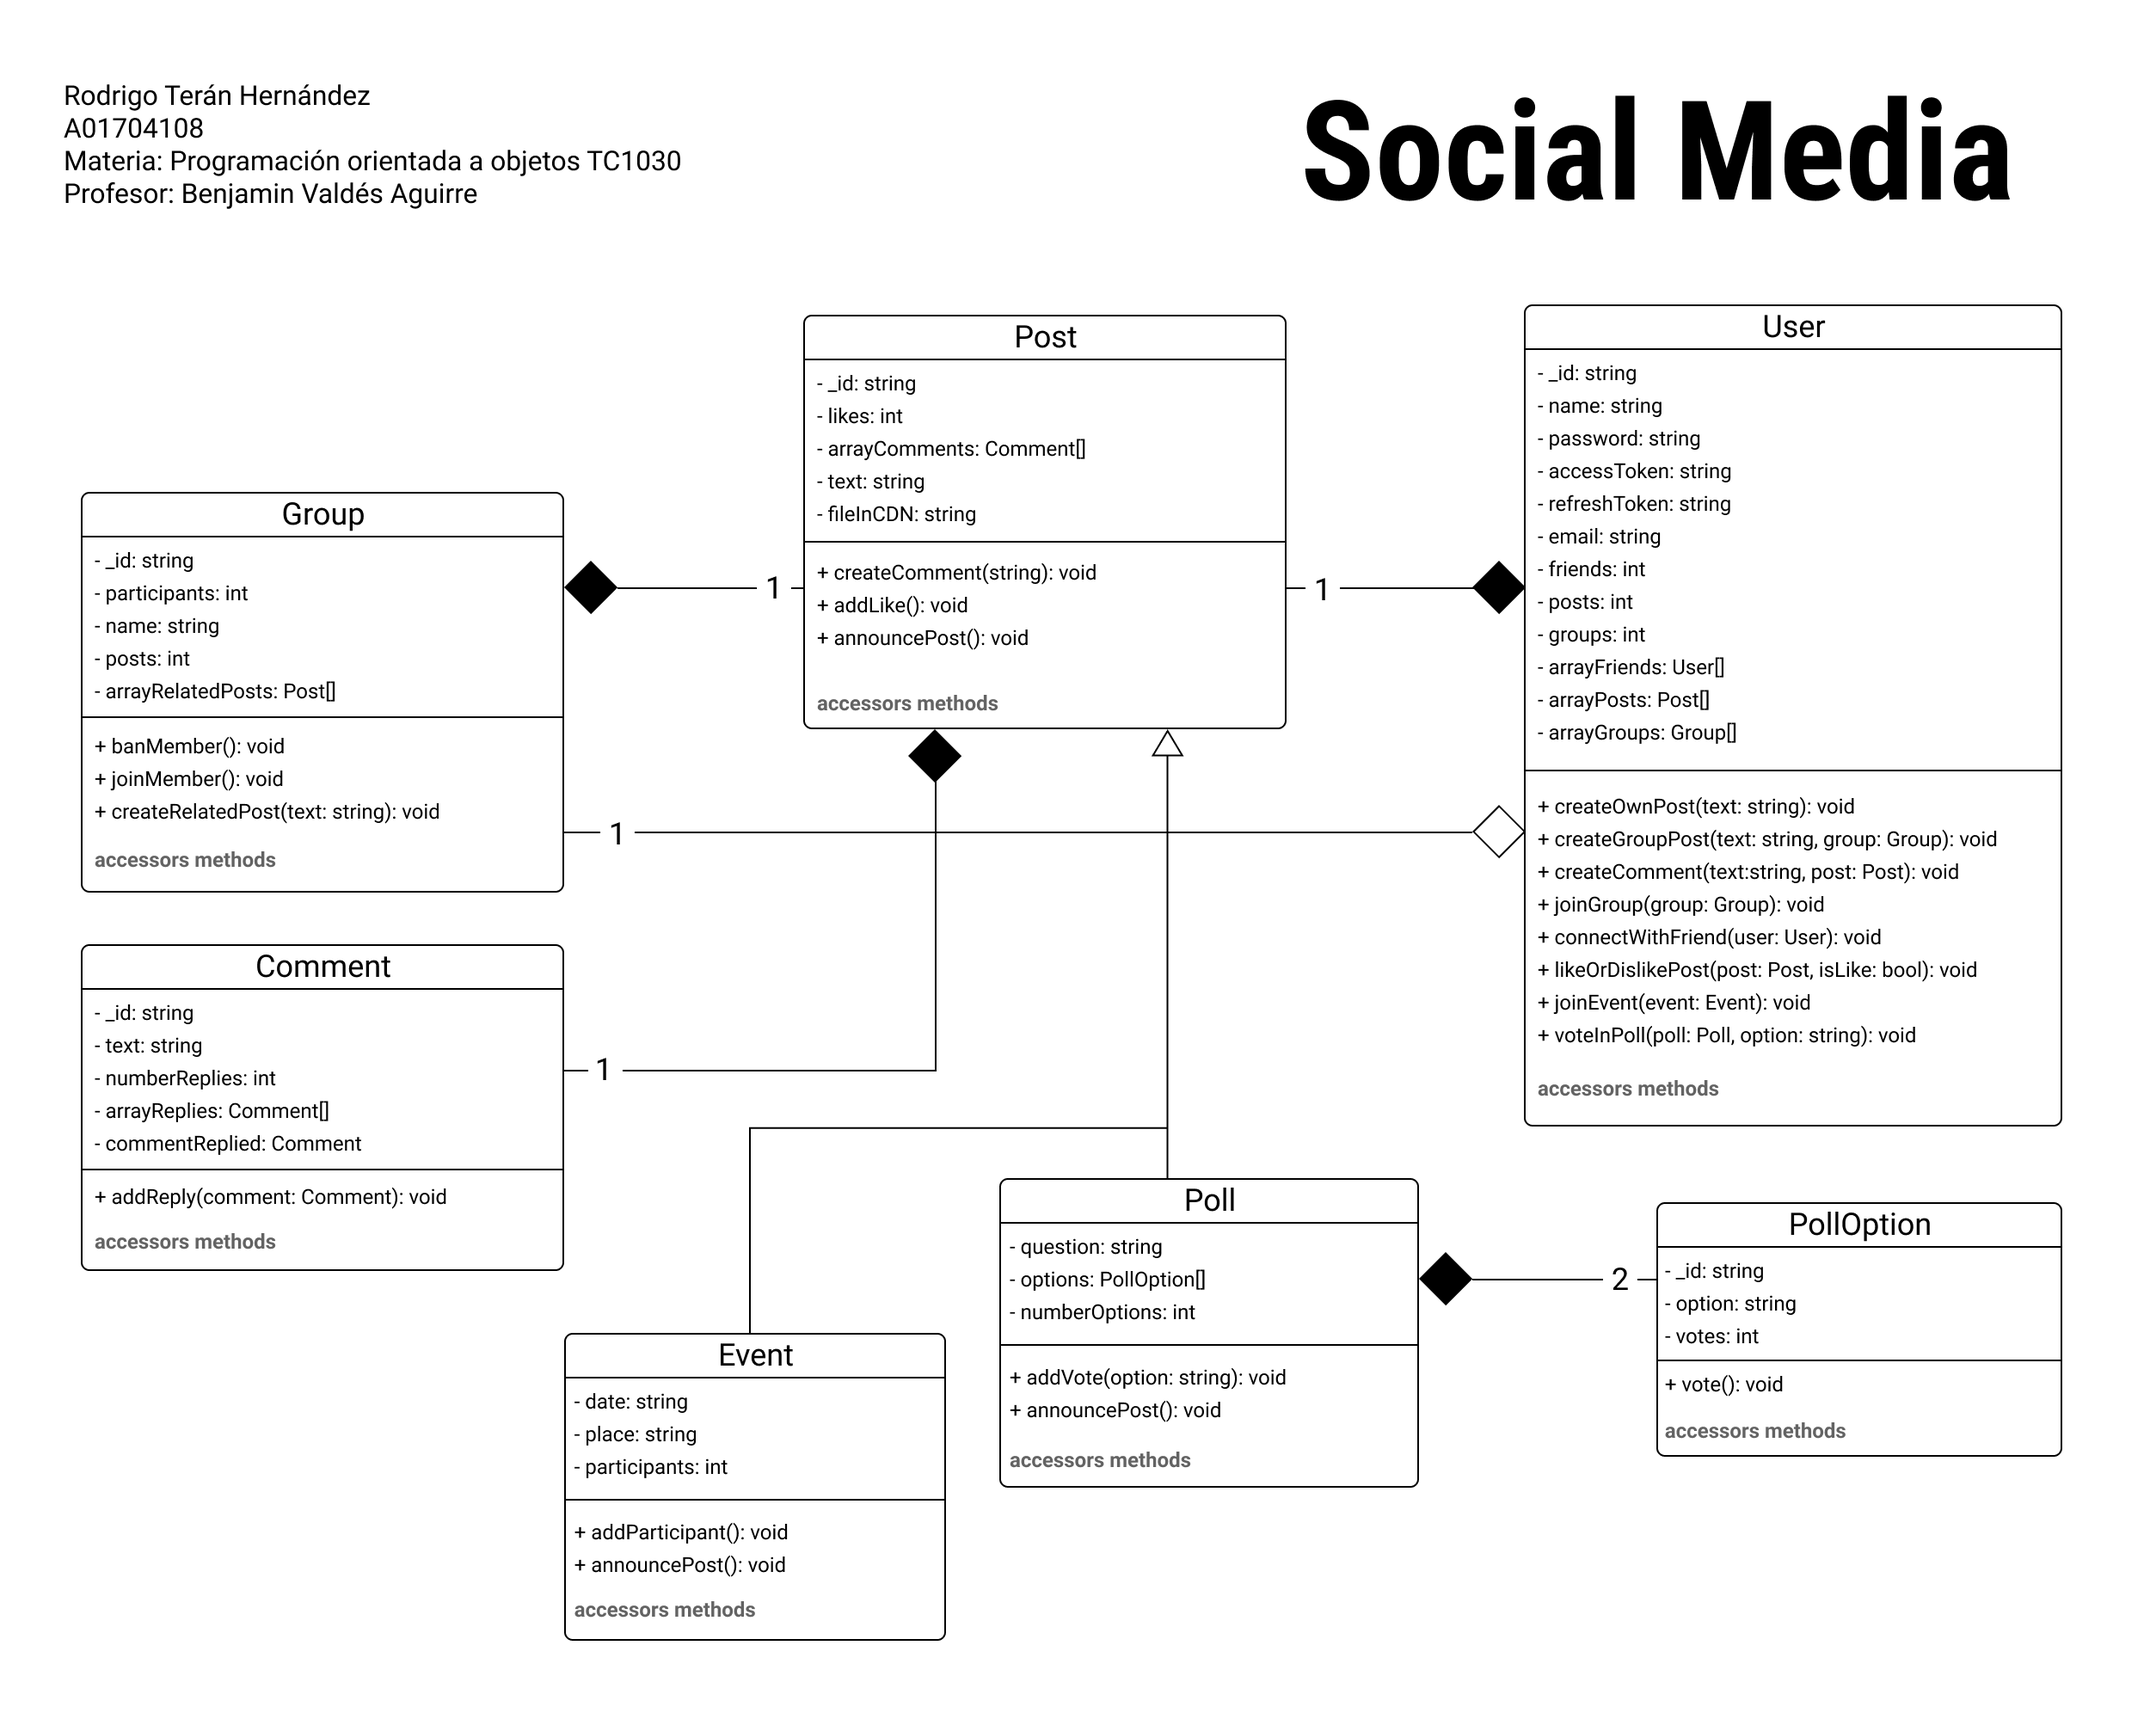
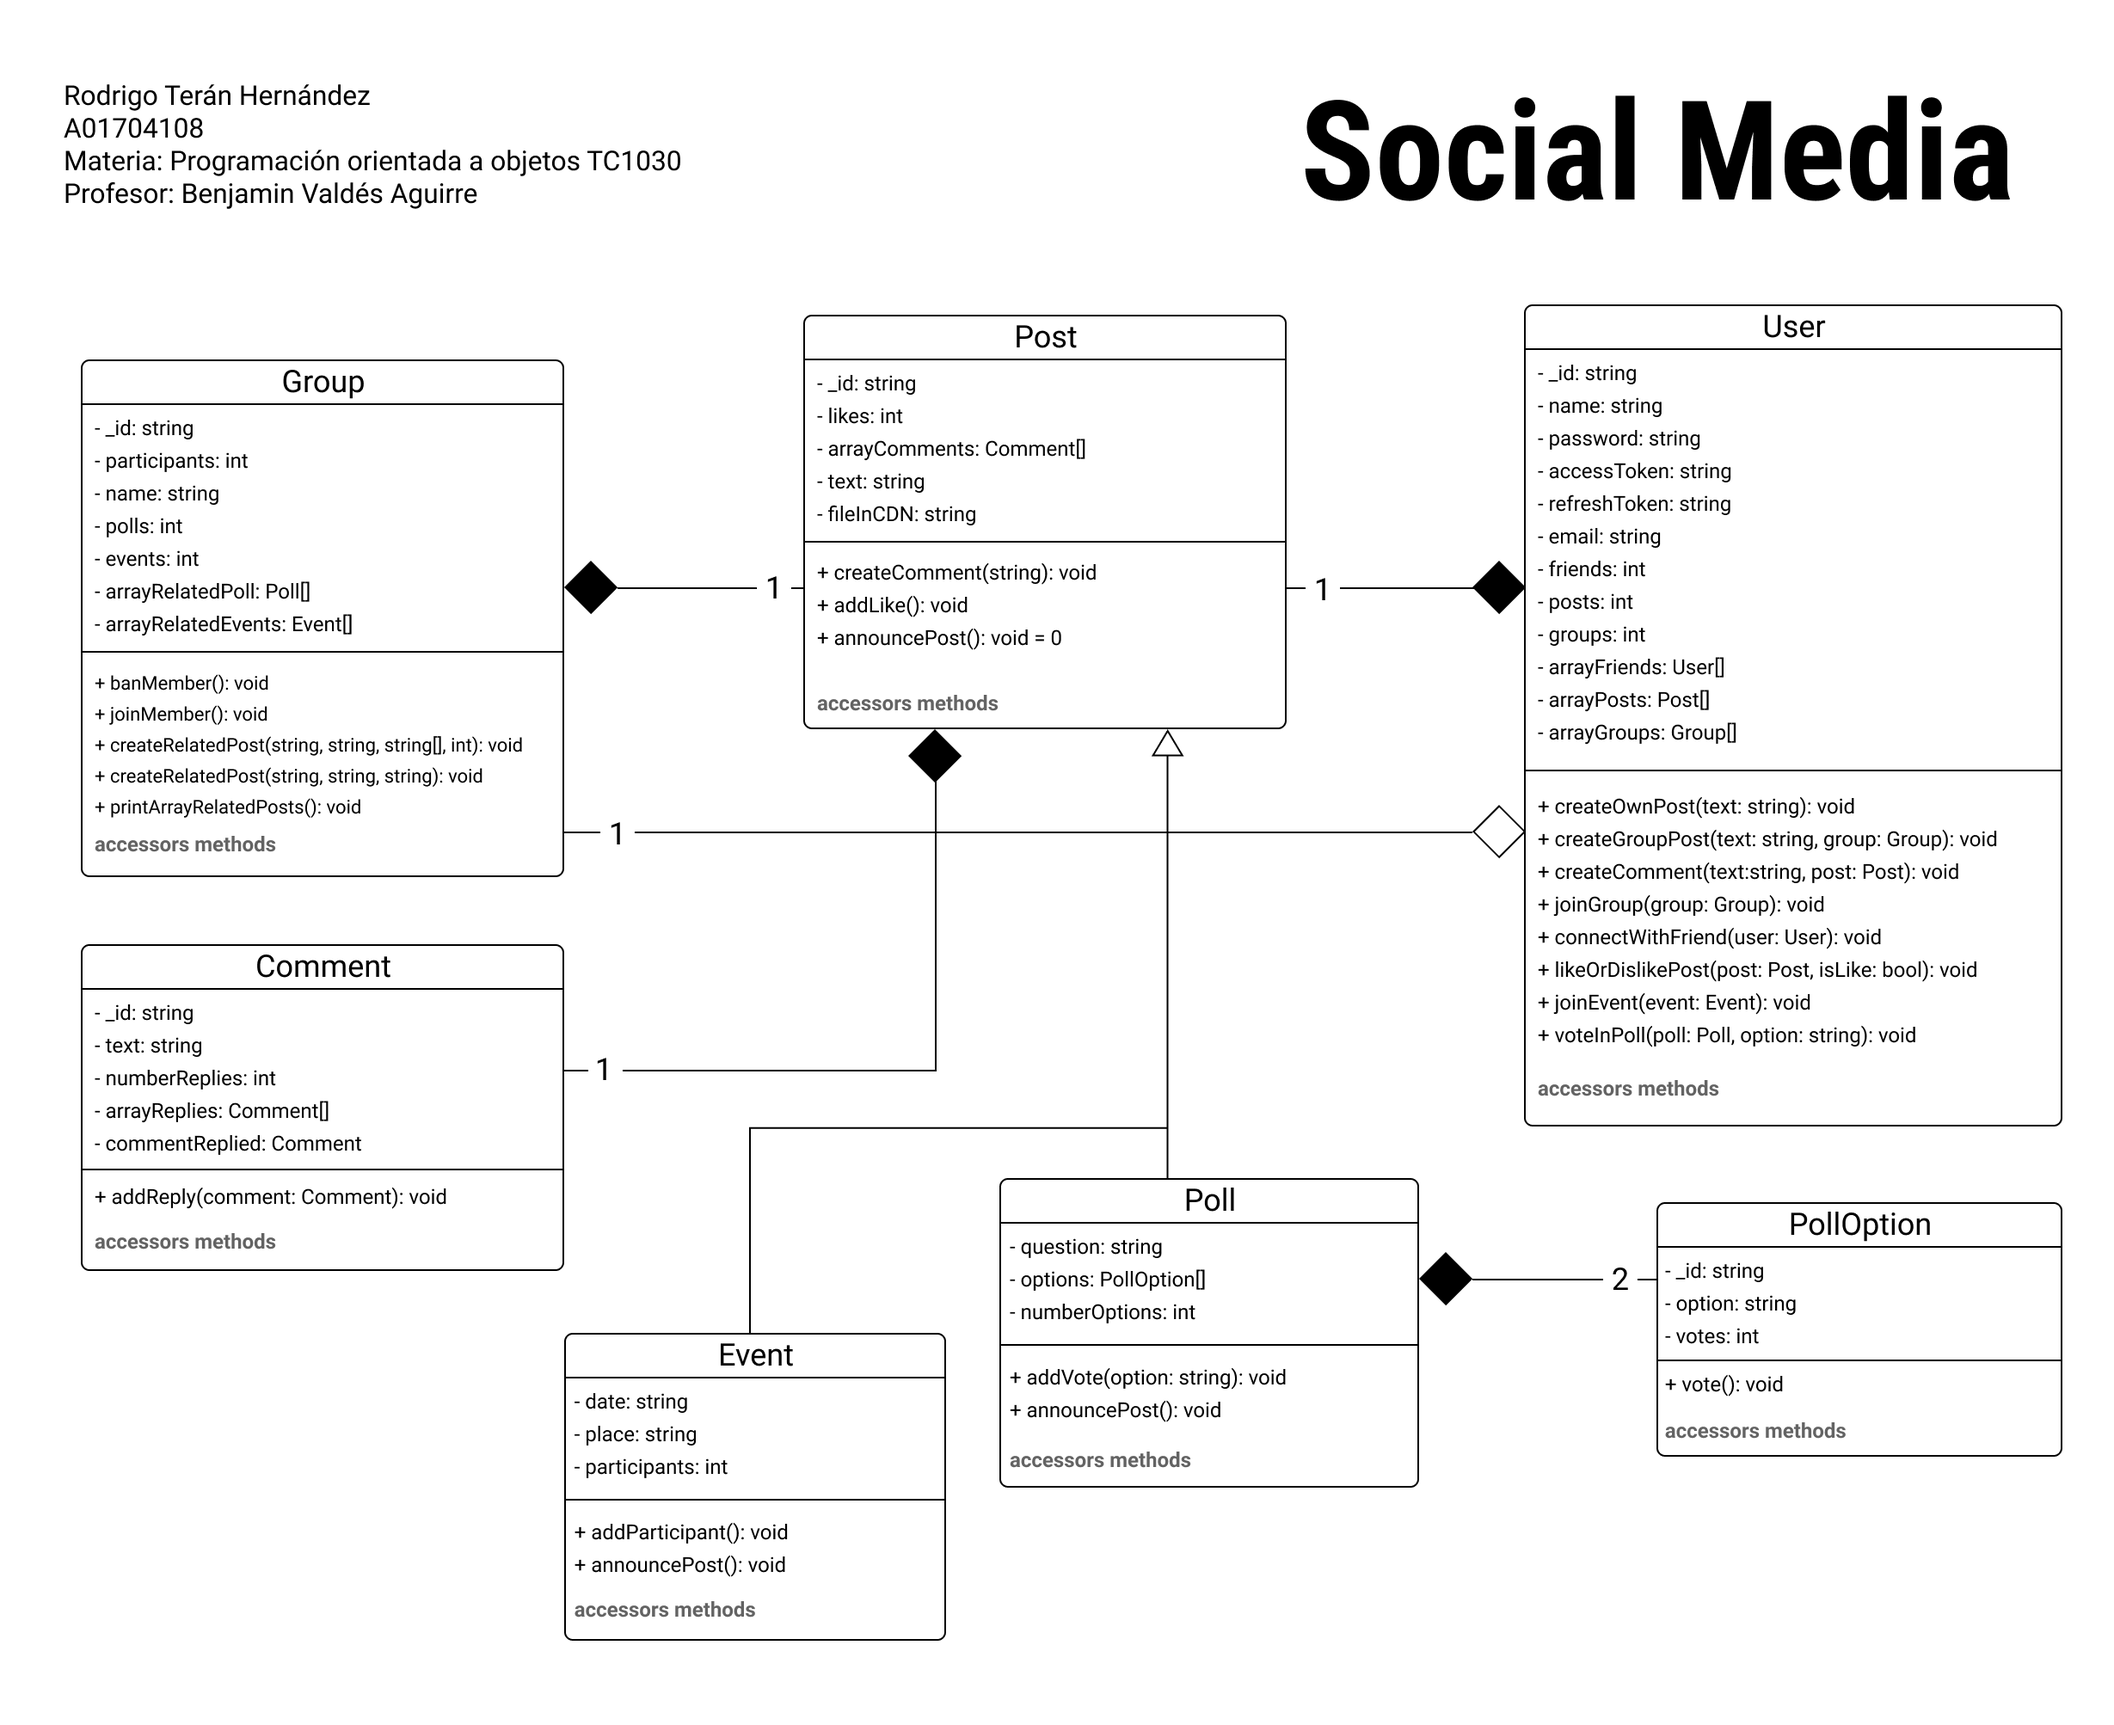
refactor(main)

diff --git a/group.h b/group.h
@@ -22,8 +22,8 @@ class Group {
         int polls;
         int events;
         string name;
-        Poll arrayRelatedPoll[10];
-        Event arrayRelatedEvent[10];
+        Poll arrayRelatedPolls[10];
+        Event arrayRelatedEvents[10];
 
     public:
         Group();
@@ -48,8 +48,8 @@ class Group {
 
 // Constructors and destructors
 Group::~Group() {
-    delete [] this->arrayRelatedPoll;
-    delete [] this->arrayRelatedEvent;
+    delete [] this->arrayRelatedPolls;
+    delete [] this->arrayRelatedEvents;
 };
 
 Group::Group() {
@@ -91,10 +91,10 @@ void Group::setName(string name) {
 void Group::printArrayRelatedPosts() {
     cout << this->name << "'s posts:" << endl;
     for (int i = 0; i < events; i++) {        
-        cout << "- " << this->arrayRelatedEvent[i].getText() << endl;
+        cout << "- " << this->arrayRelatedEvents[i].getText() << endl;
     };
     for (int i = 0; i < polls; i++) {        
-        cout << "- " << arrayRelatedPoll[i].getText() << endl;
+        cout << "- " << arrayRelatedPolls[i].getText() << endl;
     };
 };
 
@@ -108,13 +108,13 @@ void Group::joinMember() {
 
 void Group::createRelatedPost(string title, string question, string options[], int size) {
     Poll RelatedPost(title, question, options, size);
-    this->arrayRelatedPoll[this->polls] = RelatedPost;
+    this->arrayRelatedPolls[this->polls] = RelatedPost;
     this->polls = this->polls + 1;
 };
 
 void Group::createRelatedPost(string title, string where, string when) {
     Event RelatedPost(title, where, when);
-    this->arrayRelatedEvent[this->events] = RelatedPost;
+    this->arrayRelatedEvents[this->events] = RelatedPost;
     this->events = this->events + 1;
 };
 
